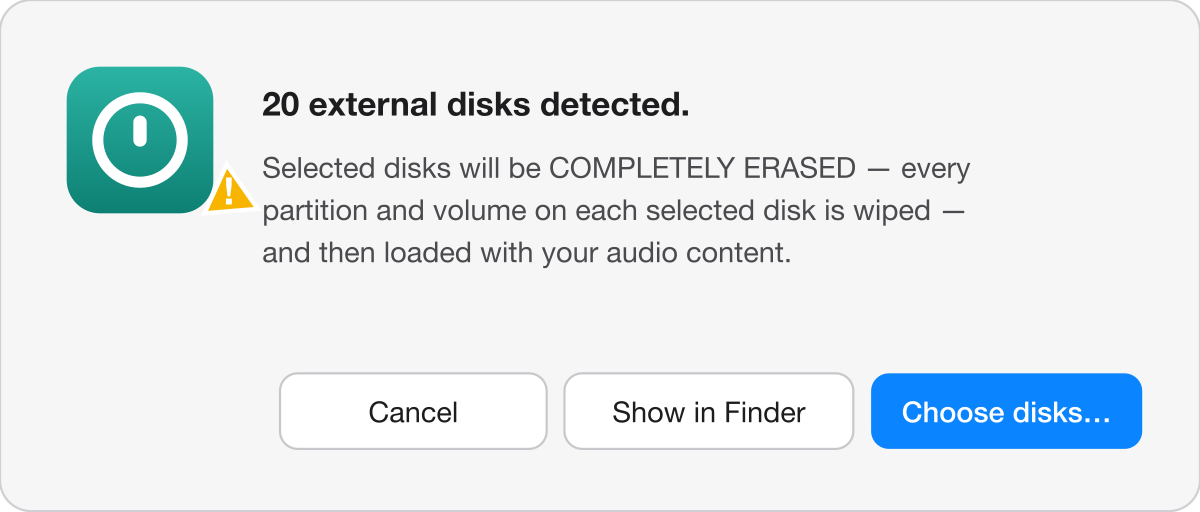
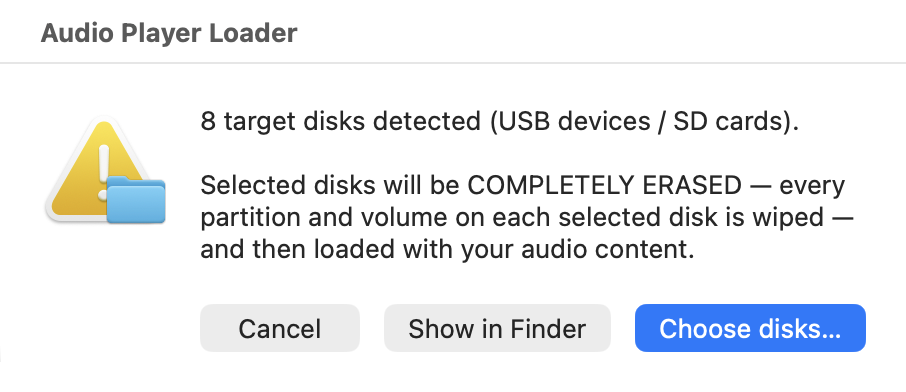
Readability/accessibility pass on the operator guide (34 fixes)
From a 4-lens review (plain language, verbosity, accessibility, first-run
flow) targeting a low-tech reader who knows basic Mac usage and nothing else.

Bugs:
- Unclosed <img> tag on the erase-confirmation screenshot was swallowing its
  figcaption (invalid HTML at the most safety-critical step).
- Guide said "external disks" where the dialog now says "target disks (USB
  devices / SD cards)" — text, alt text, and the screenshot re-captured.

Plain language (jargon taught in place or removed): partitions/volumes in
the opening erase warning; "bus power"; "mounted" (3 places); "eject" now
comes with the actual Finder ⏏ step; "player-agnostic"; "write manifest";
"toast"; unzip = double-click; long sentences split at step 7's content
check, step 10's buttons, and the Wait step.

Verbosity: the run-again loop was told 5 times and the LED legend 6 times —
each now taught once where it's needed, pointers elsewhere; deleted the
"third confirmation" note (duplicated method 2's bullets and confused
ordering); trimmed duplicate halves of the dark-device callout, KULUMI
order callout, Envision restatement, and two figure captions.

Accessibility: OK/REDO words called out so color is never the only cue for
loaded-vs-failed; preview caption/alt use position (new name first) not just
green; CHECK tag contrast raised to AA (#8a6d1a -> #7a6017); "Click here"
label now names the Player-Specific Setup tab; Cmd + I notation aligned.
[…]

diff --git a/docs/index.html b/docs/index.html
@@ -60,7 +60,7 @@
   td code{white-space:nowrap;}
   .tag{display:inline-block; font-weight:700; font-size:.8rem; padding:.1em .5em; border-radius:5px;}
   .tag.good{background:#e4f5ea; color:#1a7a43;}
-  .tag.check{background:#fdf3d8; color:#8a6d1a;}
+  .tag.check{background:#fdf3d8; color:#7a6017;}
   .tag.redo{background:#fbe4e4; color:#a83232;}
   footer{margin-top:40px; color:var(--muted); font-size:.85rem; border-top:1px solid var(--line); padding-top:14px;}
   /* --- Tabs: Using the Loader / Player-Specific Setup (pure CSS, no JS) --- */
@@ -117,10 +117,12 @@
   which disks are erased, and you confirm before anything happens.</p>
 
   <div class="callout warn">
-    <strong>⚠️ It erases whole DISKS.</strong> If a disk has several partitions or
-    volumes on it, <strong>all</strong> of them are wiped together. Unplug any drive
-    you do <strong>not</strong> want erased (backup drives, etc.) before you start —
-    the chooser also lets you deselect them.
+    <strong>⚠️ It erases whole DISKS.</strong> One physical drive can show up on your
+    Mac under several different names — this tool erases the <strong>whole drive</strong>:
+    everything, under every one of those names, together. Unplug any drive you do
+    <strong>not</strong> want erased (backup drives, etc.) before you start — and you can
+    also un-tick any drive in the list the loader shows you before it erases anything
+    (step 9).
   </div>
 
   <div class="callout info">
@@ -154,7 +156,7 @@
 
     <li>
       <h3>Put the loader in your content folder</h3>
-      <p>Unzip the download to get <code>load_content.sh</code>. Then put that file
+      <p>Double-click the downloaded <code>.zip</code> file to unzip it — that gives you <code>load_content.sh</code>. Then put that file
       <strong>inside your content folder</strong> — the one that holds your numbered audio folders
       (<code>001&nbsp;…</code>, <code>002&nbsp;…</code>), exactly as shown below. The loader copies
       whatever sits <strong>in its own folder</strong> onto the devices, so it has to live right
@@ -163,7 +165,7 @@
       — just open that folder.)</p>
       <div class="callout info">
         🎯 <strong>Setting up your content folder for a specific player?</strong>
-        <label for="rt-players" class="tablink">Click here for your device model's setup</label> — how to
+        <label for="rt-players" class="tablink">Open the <strong>Player-Specific Setup</strong> tab (at the top of this page) for your device model</label> — how to
         structure the folders, name the files, and which audio format and cable or card reader your player
         needs.
       </div>
@@ -175,8 +177,9 @@
 
     <li>
       <h3>Plug in the devices</h3>
-      <p>Plug in the USB hub with the devices to be loaded. (A <strong>powered</strong> hub is
-      best — bus power alone rarely runs many devices at once.)</p>
+      <p>Plug in the USB hub with the devices to be loaded. (A <strong>powered</strong> hub — one
+      with its own wall plug — is best; a hub running only off the Mac's power rarely keeps
+      many devices going at once.)</p>
       <p>Loading an <strong>SD or microSD card</strong> for a player that takes one? Cards work too —
       in your Mac's built-in card slot (with a microSD&rarr;SD adapter as needed) or in any USB card
       reader. Make sure the card's little <strong>lock slider</strong> is off — locked cards are
@@ -230,6 +233,9 @@
     <li>
       <h3>Press Return</h3>
       <p>Click the Terminal window and press <kbd>Return</kbd>.</p>
+      <p>The first time you run the loader, the Mac itself may ask whether Terminal can access
+      your files or a removable volume — click <strong>OK</strong> (or <strong>Allow</strong>)
+      each time. The loader can't see your devices without it.</p>
     </li>
 
     <li>
@@ -258,20 +264,21 @@
         <li><strong>Which player?</strong> — pick your player model from a list. The loader then checks
         your content against <em>that player's</em> documented rules (folder depth, file types, naming)
         before anything is erased. Pick <strong>Other / not sure</strong> for generic checks only.
-        Choosing a player this tool cannot load (encrypted-only models like the MegaVoice Envision or
-        Davar/Kivah Audibible) explains why and stops safely.
+        If you pick a player this tool cannot load (an encrypted-only model like the MegaVoice
+        Envision or Davar/Kivah Audibible), the loader explains why and stops safely — nothing
+        gets erased.
       <figure>
         <img class="shot"  src="images/12-player.png" alt="Screenshot: the player picker list with the documented player families">
         <figcaption>Pick the player these devices are for</figcaption>
       </figure>
         </li>
-        <li><strong>Content check</strong> — if the loader spots things that often will not play
-        (audio sitting directly inside a top-level folder when a player expects an album sub-folder,
-        file types like <code>.m4a</code> that many players cannot decode, empty folders, folders mixing
-        numbered and un-numbered names), a caution box lists every offending file by name — and the
-        write-order preview opens automatically with each flagged item marked <strong>right where it
-        sits</strong> in the tree, the specific reason written on the item, and every parent folder down
-        to it flagged and pre-expanded. Read it — then <strong>Load anyway</strong>, or
+        <li><strong>Content check</strong> — the loader looks for things that often will not play:
+        audio files sitting directly inside a top-level folder (many players need an album sub-folder),
+        file types like <code>.m4a</code> that many players cannot decode, empty folders, and folders
+        that mix numbered and un-numbered names. If it finds any, a caution box lists every offending
+        file by name. The write-order preview also opens automatically, with each flagged item marked
+        <strong>right where it sits</strong> in the tree — the reason written on the item, and every
+        folder above it opened for you. Read it — then <strong>Load anyway</strong>, or
         <strong>Cancel</strong> and fix the folder first.
         <br><small>💡 Files are written to the devices <strong>in filename order</strong> — add
         <code>001</code>, <code>002</code>… prefixes to set the play order. You can also open this
@@ -292,12 +299,13 @@
 
     <li>
       <h3>Confirm the device count</h3>
-      <p>A message tells you how many external disks were found, with buttons
+      <p>A message tells you how many target disks were found (it counts your USB devices
+      and SD cards), with buttons
       <strong>Cancel / Show in Finder / Choose disks…</strong>. "Show in Finder" opens
       the drives so you can peek at what's on them; the message then comes back. Click
       <strong>Choose disks…</strong> to continue.</p>
       <figure>
-        <img class="shot" src="images/05-count.png" alt="Screenshot: the 'N external disks detected' dialog">
+        <img class="shot" src="images/05-count.png" alt="Screenshot: the 'N target disks detected' dialog">
         <figcaption>How many devices were found</figcaption>
       </figure>
     </li>
@@ -305,7 +313,7 @@
     <li>
       <h3>Pick which disks to load</h3>
       <p>A list appears. <strong>Each row is one DISK</strong>, shown with its size and
-      the names of all volumes on it. <strong>All disks start selected.</strong> If you
+      the name(s) it shows up under in Finder. <strong>All disks start selected.</strong> If you
       see a disk you want to <strong>keep</strong> (for example a backup drive), hold
       <kbd>Cmd</kbd> and click that row to deselect it. Then click
       <strong>Continue…</strong>.</p>
@@ -319,23 +327,24 @@
       <h3>Read and confirm</h3>
       <p>A final message shows exactly which disks will be <strong>ERASED</strong> and
       which will be <strong>KEPT</strong>, and reminds you that files are written in
-      <strong>filename order</strong>. Read it! Then click <strong>Erase &amp; Load</strong> —
-      or <strong>Preview order…</strong> to open the write-order preview in your browser first, or
-      <strong>Back</strong> to change the selection (your choices are kept; pressing
-      <kbd>Esc</kbd> also goes back, and the disk list's Cancel button aborts the run).</p>
+      <strong>filename order</strong>. Read it! Then click <strong>Erase &amp; Load</strong>.
+      Not ready yet? <strong>Preview order…</strong> opens the write-order preview in your browser
+      first, and <strong>Back</strong> returns to the disk list with your choices kept.
+      (Pressing <kbd>Esc</kbd> also goes back; the disk list's <strong>Cancel</strong> button stops
+      the whole run.)</p>
       <p><strong>Preview order…</strong> shows a collapsible folder tree of exactly what will be
       written, top to bottom in play order — original names alongside the renamed device names when
       <strong>Simple numbers</strong> is on. Expand or collapse any folder, or use the
       <em>Expand all / Collapse all</em> buttons. (It is the same page that opens automatically when
-      the content check finds problems — one write manifest drives both the preview and the copy, so
-      what you preview is exactly what is written.)</p>
+      the content check finds problems — and the preview and the copy are built from one and the
+      same file list, so what you preview is exactly what is written.)</p>
       <figure>
-        <img class="shot"  src="images/07-confirm.png" alt="Screenshot: the final erase/keep confirmation dialog"
+        <img class="shot"  src="images/07-confirm.png" alt="Screenshot: the final erase/keep confirmation dialog">
         <figcaption>Final confirmation — <strong>Preview order…</strong> opens the write-order tree</figcaption>
       </figure>
       <figure>
-        <img class="shot"  src="images/15-preview-renamed.png" alt="Screenshot: the write-order preview page with simple numbers on, green renamed names beside the originals">
-        <figcaption><strong>Preview order…</strong> opens this page — with <strong>Simple numbers</strong> on, device names are green, originals beside them</figcaption>
+        <img class="shot"  src="images/15-preview-renamed.png" alt="Screenshot: the write-order preview page with simple numbers on — each row shows the new device name first, in green, with the original name after it">
+        <figcaption><strong>Preview order…</strong> opens this page. With <strong>Simple numbers</strong> on, each row shows the new device name first (in green) with the original name after it</figcaption>
       </figure>
     </li>
 
@@ -346,11 +355,14 @@
       <pre><code>  OK    disk5 loaded and ejected</code></pre>
       <p><strong>Leave everything plugged in until the run finishes.</strong> Mid-run you can't
       easily tell which physical device a line like <code>disk5</code> is — so don't pull anything
-      yet. The output is <strong>colour-coded</strong> — green for devices that loaded, red for
-      failures. At the end you get a <strong>RESULTS</strong> summary grouped into
+      yet. The output is <strong>colour-coded</strong> — green for loaded, red for failures — but you
+      don't need the colours: every line also starts with the word <code>OK</code> or
+      <code>REDO</code>, so the words alone tell you which is which. (<em>Ejected</em> means the
+      Mac has safely let go of a device — but leave it plugged in until the whole run finishes.)
+      At the end you get a <strong>RESULTS</strong> summary grouped into
       <span class="tag good">GOOD</span> <span class="tag check">CHECK</span>
-      <span class="tag redo">REDO</span> (see below) and a dialog asking
-      <strong>Run again?</strong> — and <em>then</em> the lights tell you which device is which:
+      <span class="tag redo">REDO</span> (see below), and a dialog asks
+      <strong>Run again?</strong> <em>Now</em> the lights tell you which device is which:
       <strong>solid</strong> = loaded, <strong>blinking</strong> = failed,
       <strong>dark</strong> = dead battery. That's the moment to unplug and sort them.
       Click <strong>Run again</strong> to do the next batch (or redo failures), or
@@ -360,12 +372,10 @@
         <figcaption>The progress bar mid-run</figcaption>
       </figure>
       <div class="callout">
-        💡 <strong>The devices blink while they load — that's normal.</strong> Their lights flicker as
-        data is written. What matters is the light <strong>after the run finishes:</strong> a device the
-        tool flags as failed is made to keep blinking, so a light <strong>still blinking</strong> once the
-        run ends means that device failed; a <strong>steady/solid</strong> light means it finished; and
-        <strong>no light at all</strong> means
-        its battery died (it failed too). See <em>When some devices fail</em>, below.
+        💡 <strong>The devices blink while they load — that's normal.</strong> Their lights flicker
+        as data is written, and the tool deliberately makes a <em>failed</em> device <strong>keep
+        blinking</strong> after the run ends so you can spot it. The light that matters is the one
+        <em>after</em> the run finishes — see <em>When some devices fail</em>, below.
       </div>
     </li>
   </ol>
@@ -382,8 +392,9 @@
     <strong>To load more devices:</strong> if the <strong>Run again?</strong> dialog is still on
     screen, just swap in the next batch and click <strong>Run again</strong> — no need to start
     over. Only if you already clicked <strong>Done</strong> (or closed the window): plug in the
-    next batch and repeat from step 4 — pressing the <kbd>↑</kbd> Up-Arrow key in Terminal
-    repeats the previous command, then <kbd>Return</kbd>.
+    next batch and repeat from step 4. (Shortcut: click the Terminal window, press the
+    <kbd>↑</kbd> Up-Arrow key — your previous command reappears — then press <kbd>Return</kbd>.
+    That replaces steps 4–6.)
   </div>
 
   <figure>
@@ -406,7 +417,7 @@
     <tr>
       <td><span class="tag check">CHECK</span></td>
       <td>The content copied fine, but something needs a look (for example it could not
-      eject — eject it in Finder, then unplug).</td>
+      eject — in the Finder sidebar, click the little ⏏ symbol next to its name; when it disappears from the list, unplug).</td>
     </tr>
     <tr>
       <td><span class="tag redo">REDO</span></td>
@@ -422,7 +433,7 @@
 
   <figure>
     <img class="shot" src="images/run-again-redo.png" alt="Screenshot: the Run again dialog after a run where some devices failed">
-    <figcaption>…and the matching <strong>Run again?</strong> dialog, sorting devices into three piles by their light: still-blinking (failed) stay connected; solid (loaded) and dark (dead battery) come off.</figcaption>
+    <figcaption>…and the matching <strong>Run again?</strong> dialog after a run with failures — how to sort the devices by their lights comes next.</figcaption>
   </figure>
 
   <p><strong>Easiest way to finish a batch:</strong> when the run ends, a dialog asks
@@ -437,14 +448,8 @@
   <h3>Which physical device failed?</h3>
   <p>When the run finishes with failures, the script helps you find them two ways,
   automatically:</p>
-  <p><small>💡 A third confirmation, free of charge: successful devices are ejected, failed ones are
-  deliberately left mounted — so if pulling a device makes your Mac complain <em>"Disk Not Ejected
-  Properly"</em>, that toast just told you it was one of the <strong>failed</strong> ones. Devices that
-  loaded fine come out silently.</small></p>
   <p><strong>1. The still-blinking lights are the failures — so leave those plugged in.</strong>
-  Every device blinks <em>while</em> it loads; the ones <strong>still blinking</strong> once the run has
-  finished (when the pop-up appears) are the ones that failed. So do the <em>opposite</em> of unplugging
-  those: leave the still-blinking devices connected, and take out the rest and sort them by their light:</p>
+  Take out everything else and sort it by its light:</p>
   <ul>
     <li><strong>Steady / solid light — finished.</strong> These loaded and were ejected. Unplug them
     and set them aside as your <strong>done</strong> pile. (Still test them later — see
@@ -455,17 +460,10 @@
     <li><strong>Still blinking — failed; leave it connected.</strong> This is a
     <span class="tag redo">REDO</span> device and stays for the next round.</li>
   </ul>
-  <p>Your hub now holds only the <strong>still-blinking</strong> devices. Plug in a fresh
-  batch of new devices now too if you want, then click <strong>Run again</strong> — it redoes the
-  still-blinking failures (and loads any new ones). Repeat until nothing is left blinking. Choose
-  <strong>Done</strong> when you're finished.</p>
+  <p>Then pick up at <em>Easiest way to finish a batch</em>, above — click
+  <strong>Run again</strong> and repeat until nothing is left blinking.</p>
   <div class="callout warn">
-    ⚠️ <strong>Also watch for dark devices.</strong> A device whose battery died or that
-    switched off mid-copy shows <strong>no light at all</strong> — not blinking. It failed too
-    and must be redone. A <strong>steady/solid light</strong> means the device finished — but
-    still check its content before distributing.
-    <br><br>
-    <strong>Charge a dark device before reloading it.</strong> The loading cable and hub may carry
+    ⚠️ <strong>Charge a dark device before reloading it.</strong> The loading cable and hub may carry
     data only and <strong>not deliver a charge</strong>, so simply plugging a dead device back in
     may not wake it. Charge it <strong>fully first</strong> — in the sun, or with a proper charging
     cable — then reconnect it to reload.
@@ -480,7 +478,7 @@
   </div>
 
   <p><strong>2. It marks them in Finder — and macOS helps you avoid pulling the wrong one.</strong>
-  The failed devices stay <strong>mounted</strong> and are renamed <code>REDO</code>. Open a Finder
+  The failed devices stay <strong>connected and visible in Finder</strong> and are renamed <code>REDO</code>. Open a Finder
   window and watch the list under your Mac's name (e.g. <em>"Seth's MacBook Pro"</em>) as you unplug —
   the <strong>only</strong> USB volumes still shown there are the failed <code>REDO</code> ones.</p>
   <ul>
@@ -507,7 +505,7 @@
     <li>Pull the failed (<strong>REDO</strong>) devices first (see above), so they're out
     of the way.</li>
     <li>Unplug and re-plug the rest — or just re-plug the whole hub — and confirm each one
-    comes back mounted with the label you chose (e.g. <strong>PLAYER</strong>).</li>
+    shows up again in Finder with the name you chose (e.g. <strong>PLAYER</strong>).</li>
     <li>One device at a time is the most reliable check.</li>
   </ol>
   <div class="callout info">
@@ -579,14 +577,13 @@
 
   <section class="tab-panel" id="panel-players" role="tabpanel" aria-labelledby="tab-players">
   <h2>Player-Specific Setup</h2>
-<p>The loader tool itself is <strong>player-agnostic</strong>. It makes a clean, full-size FAT32 volume on each device you select and copies your numbered folders onto it in play order. It does not know or care what brand of player you own. This tab is about matching <em>your source folder and your hardware</em> to <em>your specific player</em> — the folder layout, the filenames, the audio format, and the cable or card reader that particular family expects.</p>
+<p>The loader tool itself works the same for every brand of player. It wipes each device you select, gives it a fresh standard format (FAT32 — the format nearly every simple player reads), and copies your numbered folders onto it in play order. This tab is about matching <em>your source folder and your hardware</em> to <em>your specific player</em> — the folder layout, the filenames, the audio format, and the cable or card reader that particular family expects.</p>
 
 <p>The author is actively expanding the list of tested players. Where a family below is marked <strong>not yet tested</strong>, that is an invitation to try it, not a verdict against it: it will very likely work as long as you set up the source folder structure, filenames, and audio format the way that player expects. As a rule of thumb, the author expects this tool to load essentially any device that GRN/MegaVoice's <strong>SaberCopy</strong> can load, given the right folder structure and format.</p>
 
 <p>The loader itself uses this research: at the start of each run it asks <strong>which player</strong>
 you are loading and checks your content folder against that player's documented rules before anything
-is erased — and if you pick one of the encrypted-only models below, it explains why no plain file
-copier can load it and stops.</p>
+is erased.</p>
 
 <h2>Will my player work?</h2>
 
@@ -623,7 +620,7 @@ copier can load it and stops.</p>
 
 <div class="callout"><strong>KULUMI Mini — confirmed working with this tool</strong> (verified loading over Hope Tech Global's <strong>red</strong> data cable). Some Mini variants have a removable microSD card and some do not, but <strong>all variants load via the cable</strong>. The cleanest path is the open-slot version: pull the microSD, load it in a card reader, return it — no special cable needed.</div>
 
-<div class="callout info"><strong>Why the KULUMI folder order matters.</strong> Hope Tech Global's own loader notes that a KULUMI "plays back in the order that it was copied in" — copy order, not a firmware name-sort. That is exactly what this tool guarantees: it lays your files down onto a fresh volume in sorted name order, so copy order and play order match. Number your folders and tracks with leading zeros.</div>
+<div class="callout info"><strong>Why the KULUMI folder order matters.</strong> Hope Tech Global's own loader notes that a KULUMI "plays back in the order that it was copied in" — copy order, not a firmware name-sort. That is exactly what this tool guarantees — see <em>General guidance for any player</em>, below, for the numbering rules. Number your folders and tracks with leading zeros.</div>
 
 <div class="callout warn"><strong>Two KULUMI gotchas that make a whole folder silent.</strong> (1) Audio must sit
 <strong>inside an album sub-folder</strong> — files placed directly in a top-level category folder are skipped
@@ -722,7 +719,7 @@ warns about both patterns before anything is erased.</div>
 </tr>
 </table></div>
 
-<div class="callout warn"><strong>Watch which volume you erase.</strong> Over the SLS cable a MegaVoice player can present <em>two</em> volumes at once — its internal memory and an inserted card — so read the chooser and the “ERASE / KEEP” summary carefully. If you only want to load a card, taking it out and using a standalone USB card reader keeps things unambiguous. The <strong>Envision is the exception</strong> to all of this: it plays only encrypted files, so a plain MP3 copy is ignored — use MegaVoice's own tooling for it.</div>
+<div class="callout warn"><strong>Watch which volume you erase.</strong> Over the SLS cable a MegaVoice player can present <em>two</em> volumes at once — its internal memory and an inserted card — so read the chooser and the “ERASE / KEEP” summary carefully. If you only want to load a card, taking it out and using a standalone USB card reader keeps things unambiguous.</div>
 
 <p><strong>Loading / programming documentation (per model):</strong></p>
 <ul>
@@ -762,7 +759,7 @@ warns about both patterns before anything is erased.</div>
 <ol>
 <li>Plug in the device (or its memory card in a USB reader).</li>
 <li>In the <strong>Finder</strong>, click the device where it appears in the sidebar (under <em>Locations</em>).</li>
-<li>Press <kbd>Cmd</kbd>-<kbd>I</kbd> (or the menu <strong>File ▸ Get Info</strong>).</li>
+<li>Press <kbd>Cmd</kbd> + <kbd>I</kbd> (or the menu <strong>File ▸ Get Info</strong>).</li>
 <li>Read the <strong>“Format:”</strong> line near the top of the window.</li>
 </ol>
 <p>(Or open <strong>Disk Utility</strong> — Applications ▸ Utilities ▸ Disk Utility — and click the volume; its format shows just under the name.)</p>

diff --git a/tools/regen_docs_index.py b/tools/regen_docs_index.py
@@ -19,7 +19,7 @@ MAPPING = [
     ("onto the Terminal window", "03-drag-script.png"),
     ("Dock icon", "03b-drag-to-dock.png"),
     ("volume-label dialog", "04-label.png"),
-    ("external disks detected", "05-count.png"),
+    ("target disks detected", "05-count.png"),
     ("disk chooser list", "06-choose.png"),
     ("erase/keep confirmation", "07-confirm.png"),
     ("progress bar running", "08-progress.png"),